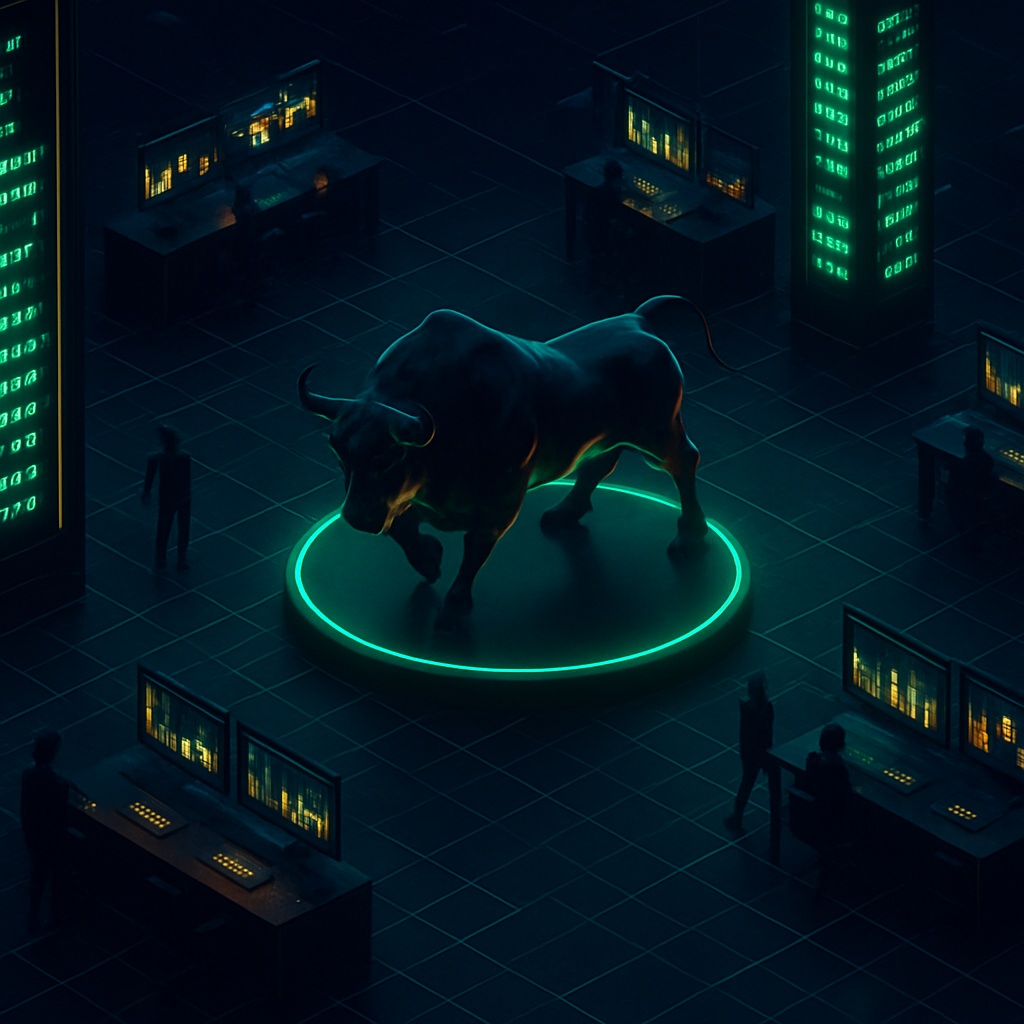
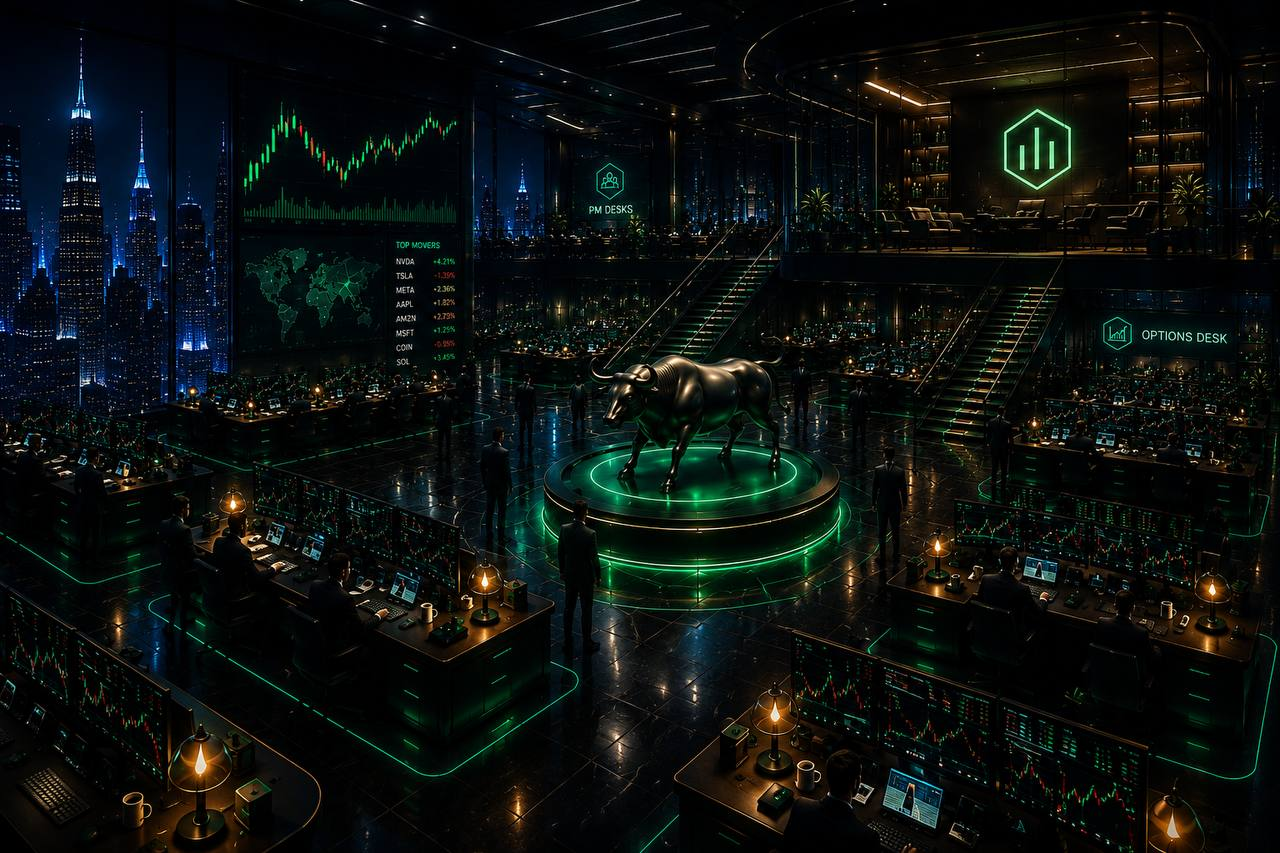
feat: add dedicated CA section to landing page

diff --git a/app/globals.css b/app/globals.css
@@ -1244,6 +1244,105 @@ button, input, select { font: inherit; }
   margin: 0;
 }
 
+/* ── CA Section ────────────────────────────────────────────── */
+.lp-ca-section {
+  padding: 100px 24px;
+  background: var(--panel);
+  border-top: 1px solid rgba(0, 255, 157, 0.06);
+}
+
+.lp-ca-section-inner {
+  display: flex;
+  flex-direction: column;
+  align-items: center;
+  text-align: center;
+}
+
+.lp-ca-section-sub {
+  font-size: 15px;
+  color: var(--muted);
+  margin: -36px 0 40px;
+  line-height: 1.6;
+}
+
+.lp-ca-block {
+  display: flex;
+  align-items: center;
+  gap: 14px;
+  width: 100%;
+  max-width: 680px;
+  padding: 18px 24px;
+  background: var(--panel2);
+  border: 1px solid rgba(0, 255, 157, 0.2);
+  border-radius: 10px;
+  cursor: pointer;
+  transition: border-color 0.15s, background 0.15s, box-shadow 0.15s;
+  text-align: left;
+}
+
+.lp-ca-block:hover {
+  border-color: rgba(0, 255, 157, 0.45);
+  background: rgba(0, 255, 157, 0.04);
+  box-shadow: 0 0 28px rgba(0, 255, 157, 0.1);
+}
+
+.lp-ca-block-label {
+  font-size: 11px;
+  font-weight: 800;
+  letter-spacing: 0.14em;
+  text-transform: uppercase;
+  color: var(--neon);
+  flex-shrink: 0;
+  padding: 4px 10px;
+  background: rgba(0, 255, 157, 0.1);
+  border: 1px solid rgba(0, 255, 157, 0.2);
+  border-radius: 4px;
+}
+
+.lp-ca-block-addr {
+  font-family: "Courier New", Courier, monospace;
+  font-size: 14px;
+  color: var(--text);
+  flex: 1;
+  overflow: hidden;
+  text-overflow: ellipsis;
+  white-space: nowrap;
+  letter-spacing: 0.02em;
+}
+
+.lp-ca-block-copy {
+  flex-shrink: 0;
+  color: var(--muted);
+  display: flex;
+  align-items: center;
+  transition: color 0.12s;
+}
+
+.lp-ca-block:hover .lp-ca-block-copy { color: var(--neon); }
+
+.lp-ca-copied {
+  font-size: 12px;
+  font-weight: 700;
+  color: var(--neon);
+  letter-spacing: 0.06em;
+}
+
+.lp-ca-note {
+  margin: 16px 0 0;
+  font-size: 12px;
+  color: var(--muted);
+  line-height: 1.6;
+}
+
+.lp-ca-note a {
+  color: var(--text);
+  text-decoration: none;
+  font-weight: 600;
+  transition: color 0.12s;
+}
+
+.lp-ca-note a:hover { color: var(--neon); }
+
 /* ── Footer ────────────────────────────────────────────────── */
 .lp-footer {
   padding: 28px 32px;

diff --git a/app/page.tsx b/app/page.tsx
@@ -47,6 +47,7 @@ export default function LandingPage() {
         <span className="lp-logo">THE FLOOR</span>
         <nav className="lp-nav-links" aria-label="Primary">
           <a href="#how-it-works">How It Works</a>
+          <a href="#contract">CA</a>
           <a
             href="https://x.com/thefloorsolana"
             target="_blank"
@@ -136,6 +137,35 @@ export default function LandingPage() {
               </div>
             ))}
           </div>
+        </div>
+      </section>
+
+      {/* ── CA Section ───────────────────────────────────────── */}
+      <section id="contract" className="lp-ca-section" aria-labelledby="ca-heading">
+        <div className="lp-section-inner lp-ca-section-inner">
+          <h2 id="ca-heading" className="lp-section-title">Contract Address</h2>
+          <p className="lp-ca-section-sub">
+            The Floor token is live on Solana. Copy the contract address below.
+          </p>
+          <button className="lp-ca-block" onClick={copyCA} aria-label="Copy contract address">
+            <span className="lp-ca-block-label">CA</span>
+            <span className="lp-ca-block-addr">{CA}</span>
+            <span className="lp-ca-block-copy" aria-live="polite">
+              {copied ? (
+                <span className="lp-ca-copied">Copied!</span>
+              ) : (
+                <svg width="16" height="16" viewBox="0 0 24 24" fill="none" stroke="currentColor" strokeWidth="2" strokeLinecap="round" strokeLinejoin="round" aria-hidden="true">
+                  <rect x="9" y="9" width="13" height="13" rx="2" />
+                  <path d="M5 15H4a2 2 0 0 1-2-2V4a2 2 0 0 1 2-2h9a2 2 0 0 1 2 2v1" />
+                </svg>
+              )}
+            </span>
+          </button>
+          <p className="lp-ca-note">
+            Always verify the CA via{" "}
+            <a href="https://x.com/thefloorsolana" target="_blank" rel="noopener noreferrer">@thefloorsolana</a>{" "}
+            before buying.
+          </p>
         </div>
       </section>
 